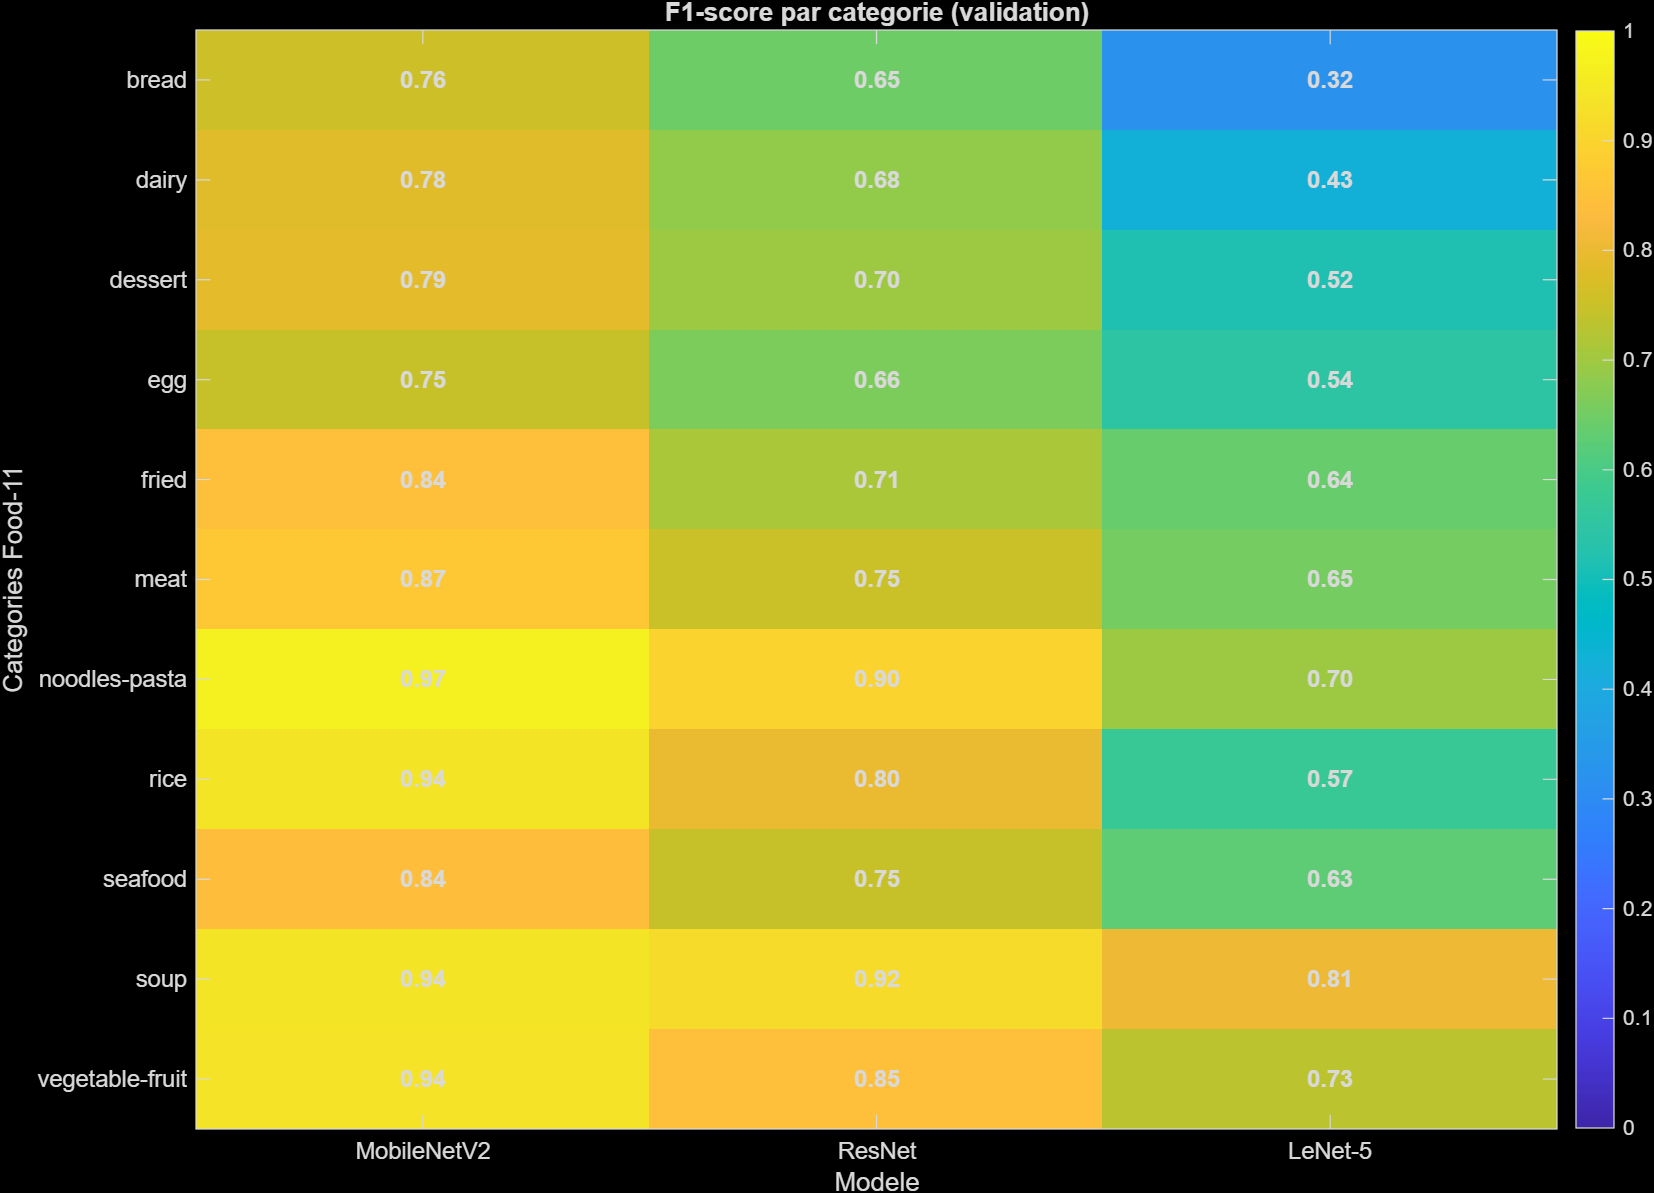
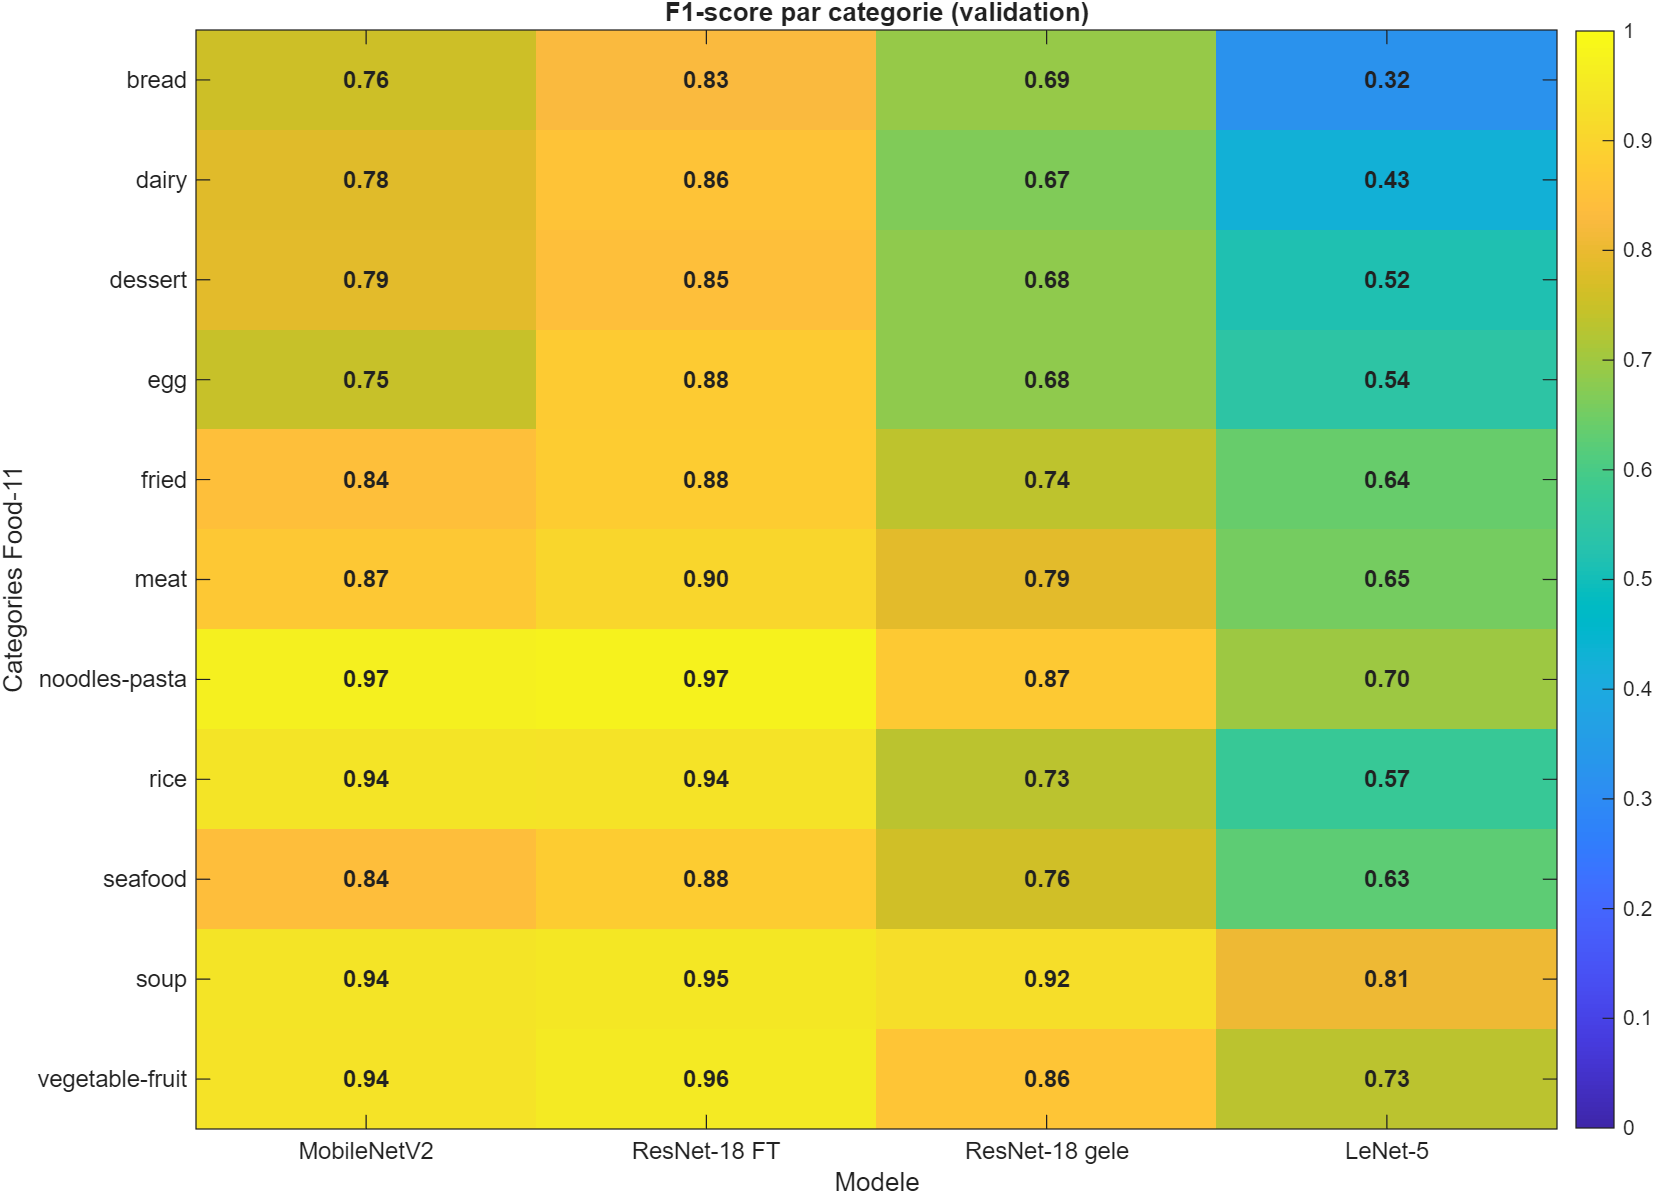
Évaluation à 4 modèles (ResNet-18 gelé et fine-tuné) et README mis à jour

diff --git a/make_report_figures.m b/make_report_figures.m
@@ -32,7 +32,9 @@ perClassTable = readtable(fullfile(evaluationDir, ...
 confusionCounts = readmatrix(fullfile(evaluationDir, ...
     'confusion_counts_mobilenetv2.csv'));
 
-requiredF1Columns = ["Class", "MobileNetV2", "ResNet", "LeNet_5"];
+reportModels = ["LeNet-5", "ResNet-18 gele", "ResNet-18 FT", "MobileNetV2"];
+reportColumns = string(matlab.lang.makeValidName(cellstr(reportModels)));
+requiredF1Columns = ["Class", reportColumns];
 requiredPerClassColumns = ["Class", "Support", "Precision", "Recall", "F1"];
 assertColumns(f1Table, requiredF1Columns, 'classwise_f1_comparison.csv');
 assertColumns(perClassTable, requiredPerClassColumns, ...
@@ -57,10 +59,10 @@ assert(all(isfinite(confusionCounts(:))) && ...
 shortClassNames = shortClassLabels(classOrder);
 
 %% Figure 1 : heatmap compacte du F1-score par classe
-f1Scores = [ ...
-    f1Table.LeNet_5, ...
-    f1Table.ResNet, ...
-    f1Table.MobileNetV2];
+f1Scores = zeros(height(f1Table), numel(reportColumns));
+for k = 1:numel(reportColumns)
+    f1Scores(:, k) = f1Table.(reportColumns(k));
+end
 assert(all(isfinite(f1Scores(:))) && all(f1Scores(:) >= 0) && ...
     all(f1Scores(:) <= 1), 'Les F1-scores doivent etre compris entre 0 et 1.');
 
@@ -76,9 +78,9 @@ ax.XColor = [0 0 0];
 ax.YColor = [0 0 0];
 ax.LineWidth = 0.7;
 ax.Box = 'on';
-ax.XTick = 1:3;
+ax.XTick = 1:numel(reportModels);
 ax.YTick = 1:numel(classOrder);
-ax.XTickLabel = {'LeNet-5', 'ResNet-18', 'MobileNetV2'};
+ax.XTickLabel = {'LeNet-5', 'ResNet-18 gelé', 'ResNet-18 FT', 'MobileNetV2'};
 ax.YTickLabel = cellstr(shortClassNames);
 ax.TickLength = [0 0];
 colormap(ax, parula(256));

diff --git a/evaluation/generate_json.m b/evaluation/generate_json.m
@@ -12,14 +12,14 @@ clearvars; clc;
 %% A. PARAMETRES
 selectedModel=string(getenv('FOOD11_MODEL'));
 if strlength(selectedModel)==0, selectedModel="auto"; end
-% ou "LeNet-5", "MobileNetV2", "ResNet" via FOOD11_MODEL
+% ou "LeNet-5", "MobileNetV2", "ResNet-18 FT", "ResNet-18 gele" via FOOD11_MODEL
 requireAllThreeModels=true;       % securite : ne pas finaliser trop tot
 miniBatchSize=32;                 % sans effet sur les predictions
 executionEnvironment='auto';     % 'cpu' si GPU indisponible
 expectedTestCount=3097;
 allowedClasses=["bread","dairy","dessert","egg","fried","meat", ...
     "noodles-pasta","rice","seafood","soup","vegetable-fruit"];
-plannedModels=["LeNet-5","MobileNetV2","ResNet"];
+plannedModels=["LeNet-5","MobileNetV2","ResNet-18 FT","ResNet-18 gele"];
 
 %% B. TROUVER LE PROJET ET LE TABLEAU DE VALIDATION
 root=locateProjectRoot(fileparts(mfilename('fullpath')));

diff --git a/evaluation/make_presentation.m b/evaluation/make_presentation.m
@@ -192,7 +192,7 @@ toCopy = { ...
     fullfile(root,'results','preprocessing','augmentation_examples.png'),     '03_augmentation.png'; ...
     fullfile(root,'results','training','lenet5_progress.png'),                '04_progression_lenet5.png'; ...
     fullfile(root,'results','training','mobilenetv2_progress.png'),           '05_progression_mobilenetv2.png'; ...
-    fullfile(root,'results','training','resnet18_progress.png'),              '06_progression_resnet18.png'; ...
+    fullfile(root,'results','training','finetuning','full','resnet18_full_ft_progress.png'), '06_progression_resnet18.png'; ...
     fullfile(evalDir,'comparison_dashboard.png'),                             '07_dashboard_comparaison.png'; ...
     fullfile(evalDir,'classwise_f1_heatmap.png'),                             '08_heatmap_f1.png'};
 for i = 1:size(toCopy, 1)

diff --git a/setup_project.m b/setup_project.m
@@ -35,10 +35,15 @@ fprintf('data/splits : train_files.csv %s | validation_files.csv %s\n', ...
     ok(isfile(fullfile('data','splits','validation_files.csv'))));
 
 % --- Modeles ---
-modeles = {'lenet5_model.mat','mobilenetv2_model.mat','resnet18_model.mat'};
+modeles = {'lenet5_model.mat','mobilenetv2_model.mat','resnet18_model.mat','resnet18_full_ft.mat'};
 fprintf('\nModeles entraines (models/) :\n');
 for k = 1:numel(modeles)
     fprintf('  %-24s %s\n', modeles{k}, ok(isfile(fullfile('models', modeles{k}))));
+end
+
+% --- Toolbox ---
+if isempty(which('dlnetwork'))
+    warning('Deep Learning Toolbox absente : les modeles ne se chargeront pas.');
 end
 
 if nClasses < 11 || nTest == 0

diff --git a/evaluation/evaluate_models.m b/evaluation/evaluate_models.m
@@ -25,10 +25,11 @@ classNames = ["bread", "dairy", "dessert", "egg", "fried", "meat", ...
     "noodles-pasta", "rice", "seafood", "soup", "vegetable-fruit"];
 
 % Fichiers cherches dans models/ (le premier trouve est utilise).
-modelNames = ["LeNet-5", "MobileNetV2", "ResNet"];
+modelNames = ["LeNet-5", "MobileNetV2", "ResNet-18 FT", "ResNet-18 gele"];
 modelCandidates = { ...
     {'lenet5_model.mat'}, ...
     {'mobilenetv2_model.mat'}, ...
+    {'resnet18_full_ft.mat'}, ...
     {'resnet18_model.mat'} ...
     };
 

diff --git a/evaluation/compare_models.m b/evaluation/compare_models.m
@@ -9,7 +9,7 @@
 clearvars; clc;
 
 %% A. CONFIGURATION
-plannedModels = ["LeNet-5","MobileNetV2","ResNet"];
+plannedModels = ["LeNet-5","MobileNetV2","ResNet-18 FT","ResNet-18 gele"];
 projectRoot = locateProjectRoot(fileparts(mfilename('fullpath')));
 resultDir = fullfile(projectRoot,'results','evaluation');
 metricPath = fullfile(resultDir,'model_metrics.csv');

diff --git a/README.md b/README.md
@@ -44,11 +44,15 @@ Food11/
 │   ├── train_lenet5.m
 │   ├── train_mobilenetv2.m        entraînement direct (GPU conseillé)
 │   ├── tune_transfer.m            recherche d'hyperparamètres + modèle final (CPU)
-│   └── train_resnet18.m
+│   ├── train_resnet18.m           ResNet-18 gelé
+│   ├── train_resnet18_partial_ft.m  fine-tuning res5a/res5b + tête
+│   └── train_resnet18_full_ft.m     fine-tuning complet
 ├── models/                  ← réseaux entraînés (.mat)
 │   ├── lenet5_model.mat
-│   ├── mobilenetv2_model.mat
-│   └── resnet18_model.mat
+│   ├── mobilenetv2_model.mat          modèle soumis
+│   ├── resnet18_model.mat             ResNet-18 gelé
+│   ├── resnet18_partial_ft[_final].mat
+│   └── resnet18_full_ft[_final].mat
 ├── evaluation/              ← comparaison et soumission
 │   ├── evaluate_models.m
 │   ├── compare_models.m
@@ -82,8 +86,21 @@ Les paramètres d'augmentation sont définis **une seule fois** dans `src/traini
 
 ## Prérequis
 
-- MATLAB R2025a, **Deep Learning Toolbox**
-- Le dataset Food-11 copié localement dans `data/train/<classe>/*.jpg` et `data/test/*.jpg`
+- MATLAB R2025a avec la Deep Learning Toolbox (sans elle les réseaux .mat ne se chargent pas)
+- Support packages MobileNet-v2 et ResNet-18, seulement pour réentraîner
+- Le dataset Food-11 copié dans `data/train/<classe>/*.jpg` et `data/test/*.jpg` (pas sur git)
+
+## Refaire la soumission sans réentraîner
+
+Les modèles entraînés sont dans `models/`. Dans MATLAB, à la racine du projet :
+
+```matlab
+setup_project
+run_evaluation
+```
+
+Le JSON est créé dans `results/evaluation/submission_food11.json`. Le modèle utilisé est celui
+qui a le meilleur Frugality Score sur la validation (MobileNetV2).
 
 ## Utilisation
 
@@ -98,17 +115,23 @@ augment_images                % visualise les augmentations
 
 % 2. Entraînement (protocole commun : src/trainingConfig.m)
 train_lenet5
-tune_transfer("mobilenetv2")  % recherche de réglages + modèle final (utilisé pour MobileNetV2)
-train_resnet18
+tune_transfer("mobilenetv2")  % recherche de réglages + modèle final (CPU, environ 5 h)
+train_resnet18                % ResNet-18 gelé
+train_resnet18_partial_ft     % fine-tuning partiel (GPU)
+train_resnet18_full_ft        % fine-tuning complet (GPU)
 
-% 3. Évaluation, figures, tableau et JSON — en une commande :
+% 3. Évaluation, figures, tableau et JSON en une commande :
 run_evaluation
-% équivaut à : evaluate_models → compare_models → make_presentation → generate_json
+% = evaluate_models, compare_models, make_presentation, generate_json
+make_report_figures           % figures du rapport
 ```
+
+Pour relancer un fine-tuning, il faut d'abord supprimer ou renommer `models/resnet18_*_ft*.mat`
+(le script ne les écrase pas).
 
 | Sortie | Fichier |
 |---|---|
-| Tableau des 3 modèles | `results/presentation/tableau_recapitulatif.png` (+ `.csv`, `.md`) |
+| Tableau des 4 modèles | `results/presentation/tableau_recapitulatif.png` (+ `.csv`, `.md`) |
 | Matrices de confusion | `results/presentation/confusion_3_modeles.png` |
 | Accuracy / loss par epoch | `results/presentation/courbes_validation_3_modeles.png` |
 | F1 par classe | `results/presentation/f1_par_classe.png` |
@@ -127,7 +150,7 @@ Tous les scripts retrouvent seuls la racine du projet : aucun chemin absolu n'es
 
 ### Protocole de comparaison
 
-**Identique pour les trois** (`src/trainingConfig.m`) :
+Base commune (`src/trainingConfig.m`) :
 
 | Élément | Valeur |
 |---|---|
@@ -140,15 +163,23 @@ Tous les scripts retrouvent seuls la racine du projet : aucun chemin absolu n'es
 | Seed | 42 |
 | Validation / test | redimensionnement seul, aucune augmentation |
 
-**Différences imposées par le point de départ** :
+Réglages de chaque modèle :
 
-| | LeNet-5 | MobileNetV2 / ResNet-18 |
-|---|---|---|
-| Taille d'entrée | 128×128 | 224×224 (taille des poids ImageNet) |
-| Normalisation | z-score avec les stats du train (`results/preprocessing/normalization_stats.mat`) | normalisation ImageNet intégrée |
-| Learning rate | 1e-3 | 1e-4 |
-| Taille de batch (choisie après essais) | 64 | 8 |
-| Couches entraînées | toutes | dernière couche seulement (`freezeBackbone = true`) |
+| | LeNet-5 | MobileNetV2 (`tune_transfer`) | ResNet-18 gele (`train_resnet18`) | ResNet-18 FT (`train_resnet18_full_ft`) |
+|---|---|---|---|---|
+| Stratégie | from scratch | extraction de caractéristiques | backbone gelé | fine-tuning complet |
+| Taille d'entrée | 128×128 | 224×224 | 224×224 | 224×224 |
+| Normalisation | z-score avec les stats du train | ImageNet intégrée | ImageNet intégrée | ImageNet intégrée |
+| Couches entraînées | toutes | dernière couche (14 091 paramètres) | dernière couche | toutes, à partir de ResNet-18 gele |
+| Learning rate | 1e-3 | 3e-4 (recherche) | 1e-4 | 1e-5 |
+| Batch | 64 | 32 (recherche) | 8 | 8 |
+| Régularisation | dropout 0,2 + L2 par défaut (1e-4) | L2 1e-5 + dropout 0,2 (recherche) | L2 par défaut (1e-4) | L2 par défaut (1e-4) |
+| Pondération des classes | oui | non (recherche) | oui | oui |
+| Augmentation | à la volée | 2 copies pré-calculées par image | à la volée | à la volée |
+| Epochs | 15 | 12 max. | 15 | 10 |
+
+Pour MobileNetV2, la recherche d'hyperparamètres (32 configurations, critère macro-F1) est dans
+`results/tuning/`.
 
 Les modèles pré-entraînés nécessitent les support packages MATLAB *Deep Learning Toolbox Model for ResNet-18 Network* et *… for MobileNet-v2 Network*.
 

diff --git a/docs/evaluation.md b/docs/evaluation.md
@@ -103,9 +103,9 @@ Les figures *communes* répondent à « quel réseau gagne et pourquoi ? » ; le
 
 Le script crée aussi `test_predictions.csv` et `test_class_distribution.png` **pour contrôle interne** : ne pas les envoyer au serveur. Le site demande le **JSON**, le nombre de paramètres **en millions** et une description courte du modèle.
 Pour tester un modèle particulier sans écraser la soumission automatique, définir
-`FOOD11_MODEL=ResNet` avant de lancer `generate_json.m`. Le fichier créé sera
-alors `results/evaluation/submission_food11_resnet.json`. Les valeurs possibles
-sont `LeNet-5`, `MobileNetV2` et `ResNet`.
+`FOOD11_MODEL="ResNet-18 FT"` avant de lancer `generate_json.m`. Le fichier créé sera
+alors `results/evaluation/submission_food11_resnet_18_ft.json`. Les valeurs possibles
+sont `LeNet-5`, `MobileNetV2`, `ResNet-18 FT` (fine-tuning complet) et `ResNet-18 gele`.
 
 Le challenge permet des évaluations privées si on **ne coche pas « Update leaderboard ? »**. Mettre à jour le leaderboard seulement pour l'entrée finale du groupe. L'entrée peut être écrasée si on réutilise le même nom de groupe.
 

diff --git a/results/presentation/tableau_recapitulatif.md b/results/presentation/tableau_recapitulatif.md
@@ -1,5 +1,6 @@
 | Modèle | Paramètres (M) | Accuracy | Macro-F1 | Balanced acc. | Frugality | ms / image |
 |---|---:|---:|---:|---:|---:|---:|
-| **MobileNetV2** | **2.26** | **84.8 %** | **0.856** | **85.3 %** | **0.649** | **21.8** |
-| ResNet | 11.19 | 75.7 % | 0.760 | 77.2 % | 0.484 | 23.0 |
-| LeNet-5 | 2.52 | 60.6 % | 0.594 | 64.4 % | 0.379 | 35.9 |
+| **MobileNetV2** | **2.26** | **84.8 %** | **0.856** | **85.3 %** | **0.649** | **33.0** |
+| ResNet-18 FT | 11.19 | 89.3 % | 0.899 | 91.0 % | 0.624 | 45.1 |
+| ResNet-18 gele | 11.19 | 76.7 % | 0.763 | 78.4 % | 0.487 | 30.7 |
+| LeNet-5 | 2.52 | 60.6 % | 0.594 | 64.4 % | 0.379 | 8.9 |
